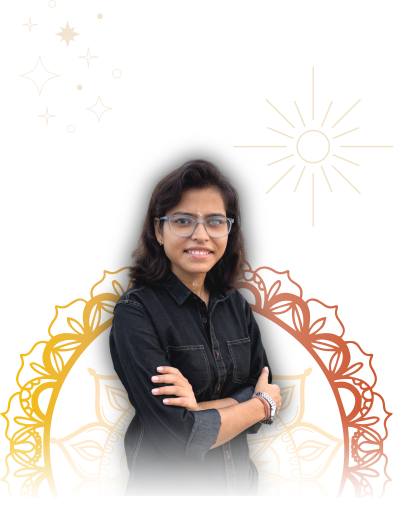
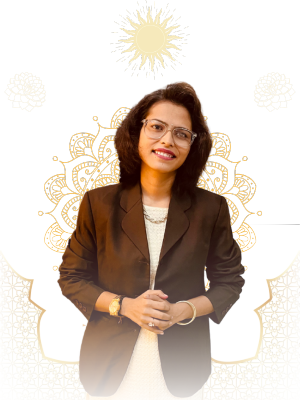
Hero section cosmetic chances, Testimonial Box and Review ratings

diff --git a/components/sections/HeroSection.jsx b/components/sections/HeroSection.jsx
@@ -3,6 +3,45 @@ import AnimatedGradientText from '../magicui/animated-gradient-text';
 import GetStartedButton from '../animata/button/get-started-button';
 import ShinyButton from '../magicui/shiny-button';
 import Image from 'next/image';
+import { Star } from 'lucide-react';
+
+const TestimonialBox = ({ className, name, message }) => (
+	<div
+		className={cn(
+			'group cursor-pointer transition-all duration-300 hover:scale-105 z-[12]',
+			'md:absolute',
+			'relative mb-4 mx-4 md:mx-0',
+			className
+		)}
+	>
+		<div className='relative flex items-center'>
+			<div className='relative'>
+				<div className='w-2 h-2 bg-orange-400 rounded-full shadow-sm shadow-orange-400/50 animate-pulse'></div>
+				<div className='absolute rounded-full -inset-1 bg-orange-400/30 animate-ping'></div>
+			</div>
+			<div className='ml-2 p-4 rounded-lg shadow-xl max-w-[250px] border border-white/20 bg-white/10 backdrop-blur-md'>
+				<p className='text-sm font-medium text-gray-800'>{message}</p>
+				<span className='block mt-2 text-xs font-semibold text-orange-500'>
+					{name}
+				</span>
+			</div>
+		</div>
+	</div>
+);
+
+const RatingStars = () => (
+	<div className='flex items-center gap-1'>
+		{[...Array(5)].map((_, i) => (
+			<Star
+				key={i}
+				className={cn(
+					'w-4 h-4',
+					i < 5 ? 'fill-orange-400 text-orange-400' : 'text-gray-300'
+				)}
+			/>
+		))}
+	</div>
+);
 
 const HeroSection = () => {
 	return (
@@ -12,13 +51,13 @@ const HeroSection = () => {
 					🎉 <hr className='mx-2 h-4 w-[1px] shrink-0 bg-gray-300' />{' '}
 					<span
 						className={cn(
-							`inline animate-gradient bg-gradient-to-r from-[#ffaa40] via-[#9c40ff] to-[#ffaa40] bg-[length:var(--bg-size)_100%] bg-clip-text text-transparent`
+							'inline animate-gradient bg-gradient-to-r from-[#ffaa40] via-[#9c40ff] to-[#ffaa40] bg-[length:var(--bg-size)_100%] bg-clip-text text-transparent'
 						)}
 					>
 						Introductory offer 50% off
 					</span>
 				</AnimatedGradientText>
-				<h1 className='max-w-xl mb-2 text-4xl md:text-6xl'>
+				<h1 className='max-w-xl mb-6 text-4xl md:text-6xl'>
 					Your{' '}
 					<span className='text-transparent bg-gradient-to-r from-orange-400 to-orange-600 bg-clip-text'>
 						Path
@@ -28,27 +67,70 @@ const HeroSection = () => {
 						Numbers
 					</span>
 				</h1>
-				<p className='max-w-xl text-lg'>
+				<p className='max-w-xl mb-12 text-lg'>
 					Experience accurate predictions and personalized guidance with expert
 					numerology and astrology. Transform your future today with a
 					one-on-one consultation.
 				</p>
-				<div className='flex flex-col items-baseline gap-4 mt-8 cta-group lg:flex-row'>
+				<div className='flex flex-col items-baseline gap-4 mb-6 cta-group lg:flex-row'>
 					<GetStartedButton
 						text='Book Your Consultation'
 						className='w-max whitespace-nowrap'
 					/>
 					<ShinyButton text='Explore Free Tools' className='' />
 				</div>
+				<div className='flex items-center gap-2 text-sm text-gray-600'>
+					<RatingStars />
+					<span className='font-medium'>4.7</span>
+					<span className='text-gray-400'>•</span>
+					<span>Verified by 200+ users</span>
+				</div>
 			</div>
-			<div className='mt-[-100px] z-[-1] md:mt-0'>
+			<div className='relative'>
+				{/* Testimonials container for mobile */}
+				<div className='mt-20 mb-8 md:hidden'>
+					<TestimonialBox
+						name='Ms. M. Sharma'
+						message="Thank you Ma'am. I got the job!"
+					/>
+					<TestimonialBox
+						name='Mr. R. Patel'
+						message='Numerology Consultations changed my life completely.'
+					/>
+					<TestimonialBox
+						name='Mrs. K. Singh'
+						message='The career guidance was spot on. Highly recommended!'
+					/>
+				</div>
+
 				<Image
-					src='/images/prakriti-hero-600.png'
+					src='/images/prakriti-hero-600.webp'
 					alt='Prakritii Vermaa Ace Numerelogist Picture'
+					loading='eager'
 					width={400}
 					height={600}
 					quality={100}
+					className='relative z-10'
 				/>
+
+				{/* Desktop testimonials */}
+				<div className='hidden md:block'>
+					<TestimonialBox
+						className='top-[20%] left-[-120px]'
+						name='Ms. M. Sharma'
+						message="Thank you Ma'am. I got the job!"
+					/>
+					<TestimonialBox
+						className='top-[0%] left-[100px]'
+						name='Mr. R. Patel'
+						message='Numerology Consultations changed my life completely.'
+					/>
+					<TestimonialBox
+						className='bottom-[25%] left-[-150px]'
+						name='Mrs. K. Singh'
+						message='The career guidance was spot on. Highly recommended!'
+					/>
+				</div>
 			</div>
 		</section>
 	);

diff --git a/lib/Consulations.js b/lib/Consulations.js
@@ -7,8 +7,8 @@ export const consultations = [
 			'Names hold significant vibrational energy that can influence various aspects of your life, from personal relationships to professional success. Our expert numerologist, Prakritii Vermaa, employs ancient numerological techniques to analyze and correct your name for optimal harmony and prosperity.',
 		link: '/consultations/name-correction',
 		image: '/images/services/name-correction.webp',
-		currentPrice: 5100,
-		actualPrice: Math.ceil(5100 / 0.7),
+		currentPrice: 11000,
+		actualPrice: Math.ceil(11000 / 0.7),
 		offering: [
 			'Detailed Name Analysis: Using Chaldean, Pythagorean and Vedic charts, we provide a comprehensive analysis of your name.',
 			'Personalized Correction: Tailored name corrections that align with your personal numerology and life goals.',
@@ -77,8 +77,8 @@ export const consultations = [
 			"Unlock the hidden potential of your business with our specialized numerology consultation. Whether you're a startup or an established enterprise, Prakritii Vermaa provides strategic insights to enhance your business success.",
 		link: '/consultations/business-consultation',
 		image: '/images/services/business-consultation.webp',
-		currentPrice: 9100,
-		actualPrice: Math.ceil(9100 / 0.7),
+		currentPrice: 15000,
+		actualPrice: Math.ceil(15000 / 0.7),
 		offering: [
 			'Business Name Analysis and Correction: Ensure your business name resonates with success and attracts positive energies.',
 			'Strategic Planning: Identify optimal times for launching new products or making significant business decisions.',
